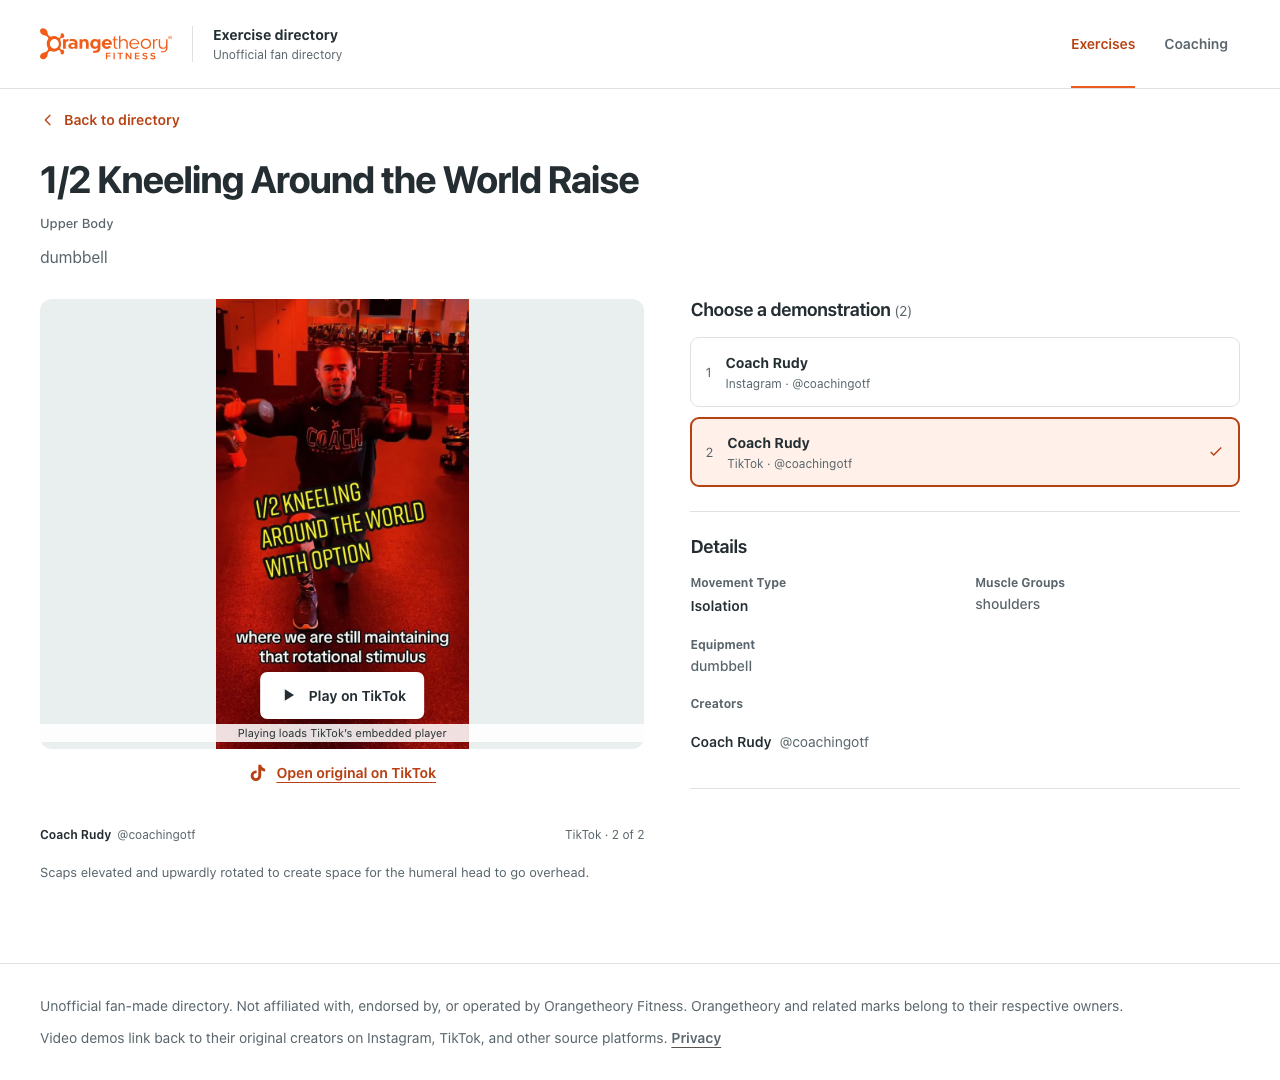
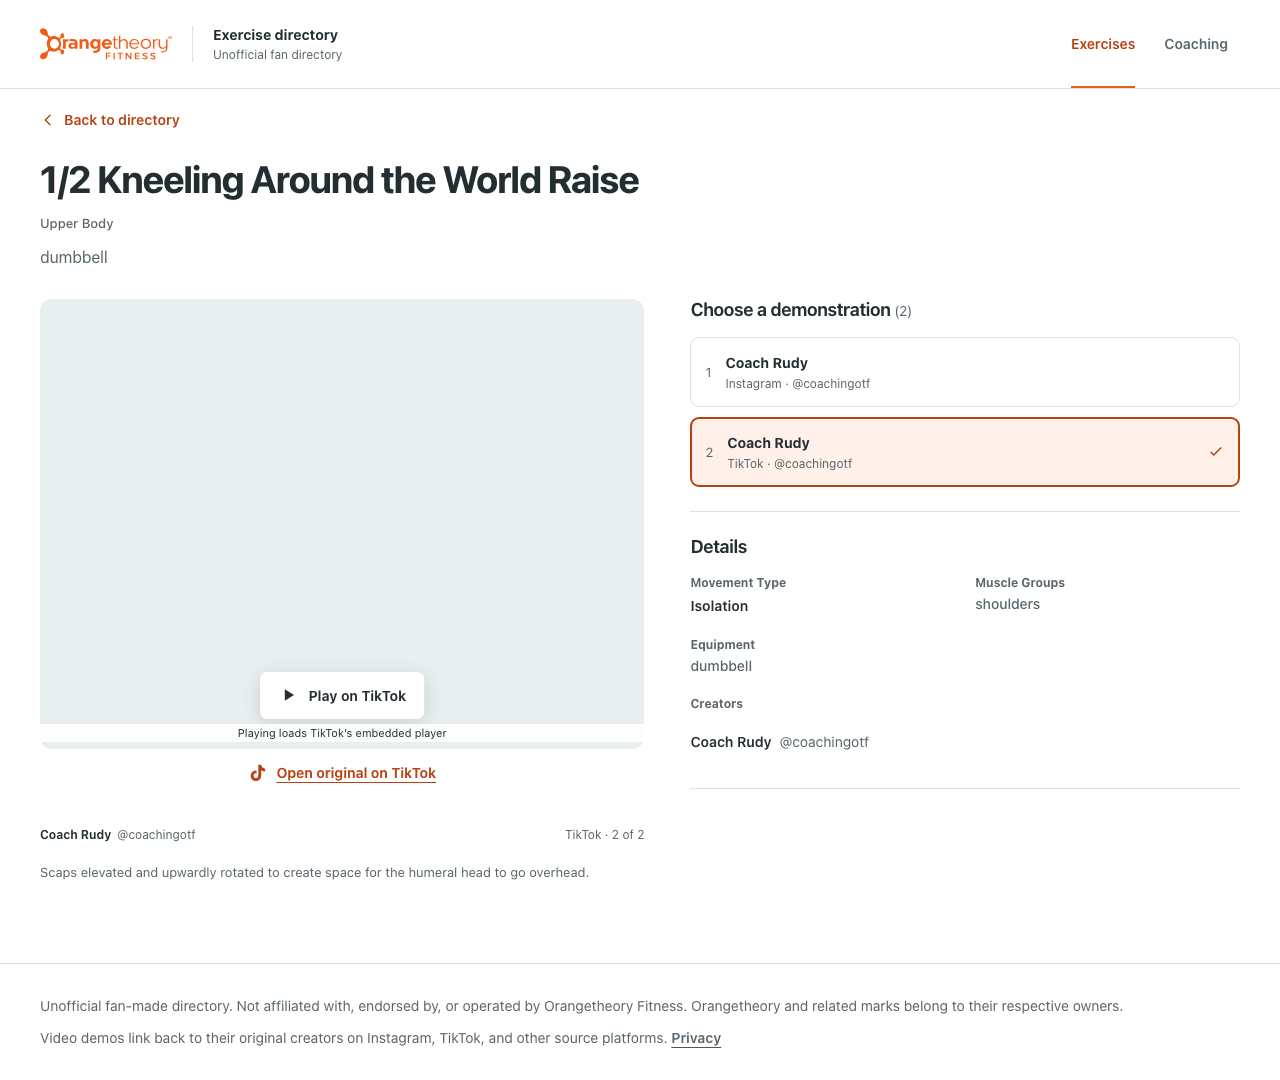
Record verified production redesign evidence (#25)

Changed region(s): [[0.1562, 0.275, 0.375, 0.7028]]

diff --git a/docs/qa/latest/design-qa.html b/docs/qa/latest/design-qa.html
@@ -6,7 +6,7 @@
   <meta http-equiv="Content-Security-Policy" content="default-src 'none'; img-src 'self' data: https:; style-src 'unsafe-inline'">
   <meta name="generator" content="otf-docs-parity/v1">
   <meta name="doc-source" content="docs/qa/latest/design-qa.md">
[2 lines of base64/hex data omitted]
   <title>Design QA — September 4, 2026 redesign</title>
   <style>
     :root {
@@ -127,8 +127,23 @@ No usability improvement or performance benchmark is inferred from this QA.</p>
 <a href="redesign/results.json">redesign</a>. Historical audit conclusions remain in their
 dated documents; their screenshot links point to the historical Git commit.
 <code>thumbnail-report.json</code> remains the independent catalog-integrity record.</p>
-<p>Production release verification is recorded after the implementation reaches
-the public alias. This pre-release record establishes local integrated behavior.</p>
+<h2 id="production-verification">Production verification</h2>
+<p>Implementation commit <code>452be78045532895303221fa7e7b27218936a46f</code> merged through
+<a href="https://github.com/vdoshi96/OTf-exercises/pull/24">PR #24</a>. Vercel deployment
+<code>dpl_5qN5au8aWiRmE6i1NKMX2NEDcvi3</code> reached Ready, and inspection confirmed
+<a href="https://o-tf-exercises.vercel.app">the public production URL</a> resolved to
+<a href="https://o-tf-exercises-99ix993sm-vdoshi96s-projects.vercel.app">that immutable deployment</a>.</p>
+<p>The complete Chromium/WebKit matrix passed against the public URL, including
+all three viewport sizes, reduced motion, and JavaScript-disabled paging.
+The 24 screen/viewport checks, alternate-video and discovery-link checks, and
+11 accessibility scans also passed on production. The retained captures and
+results come from that live run and replace the local captures. Browser checks
+cover security headers, catalog-backed iframe policy, legacy redirects and
+reviewed recoveries, true HTTP 404s, robots, and sitemap cardinality.</p>
+<p>A Vercel error-level log query for this deployment over the preceding 10 minutes
+returned no entries during QA. This is a bounded observation, not a promise of
+ongoing monitoring. The evidence closeout changes documentation only; it does
+not alter the verified application source or catalog.</p>
   </main>
 </body>
 </html>

diff --git a/docs/qa/latest/design-qa.md b/docs/qa/latest/design-qa.md
@@ -52,5 +52,23 @@ The newest completed screen captures and machine-readable results are in
 dated documents; their screenshot links point to the historical Git commit.
 `thumbnail-report.json` remains the independent catalog-integrity record.
 
-Production release verification is recorded after the implementation reaches
-the public alias. This pre-release record establishes local integrated behavior.
+## Production verification
+
+Implementation commit `452be78045532895303221fa7e7b27218936a46f` merged through
+[PR #24](https://github.com/vdoshi96/OTf-exercises/pull/24). Vercel deployment
+`dpl_5qN5au8aWiRmE6i1NKMX2NEDcvi3` reached Ready, and inspection confirmed
+[the public production URL](https://o-tf-exercises.vercel.app) resolved to
+[that immutable deployment](https://o-tf-exercises-99ix993sm-vdoshi96s-projects.vercel.app).
+
+The complete Chromium/WebKit matrix passed against the public URL, including
+all three viewport sizes, reduced motion, and JavaScript-disabled paging.
+The 24 screen/viewport checks, alternate-video and discovery-link checks, and
+11 accessibility scans also passed on production. The retained captures and
+results come from that live run and replace the local captures. Browser checks
+cover security headers, catalog-backed iframe policy, legacy redirects and
+reviewed recoveries, true HTTP 404s, robots, and sitemap cardinality.
+
+A Vercel error-level log query for this deployment over the preceding 10 minutes
+returned no entries during QA. This is a bounded observation, not a promise of
+ongoing monitoring. The evidence closeout changes documentation only; it does
+not alter the verified application source or catalog.
